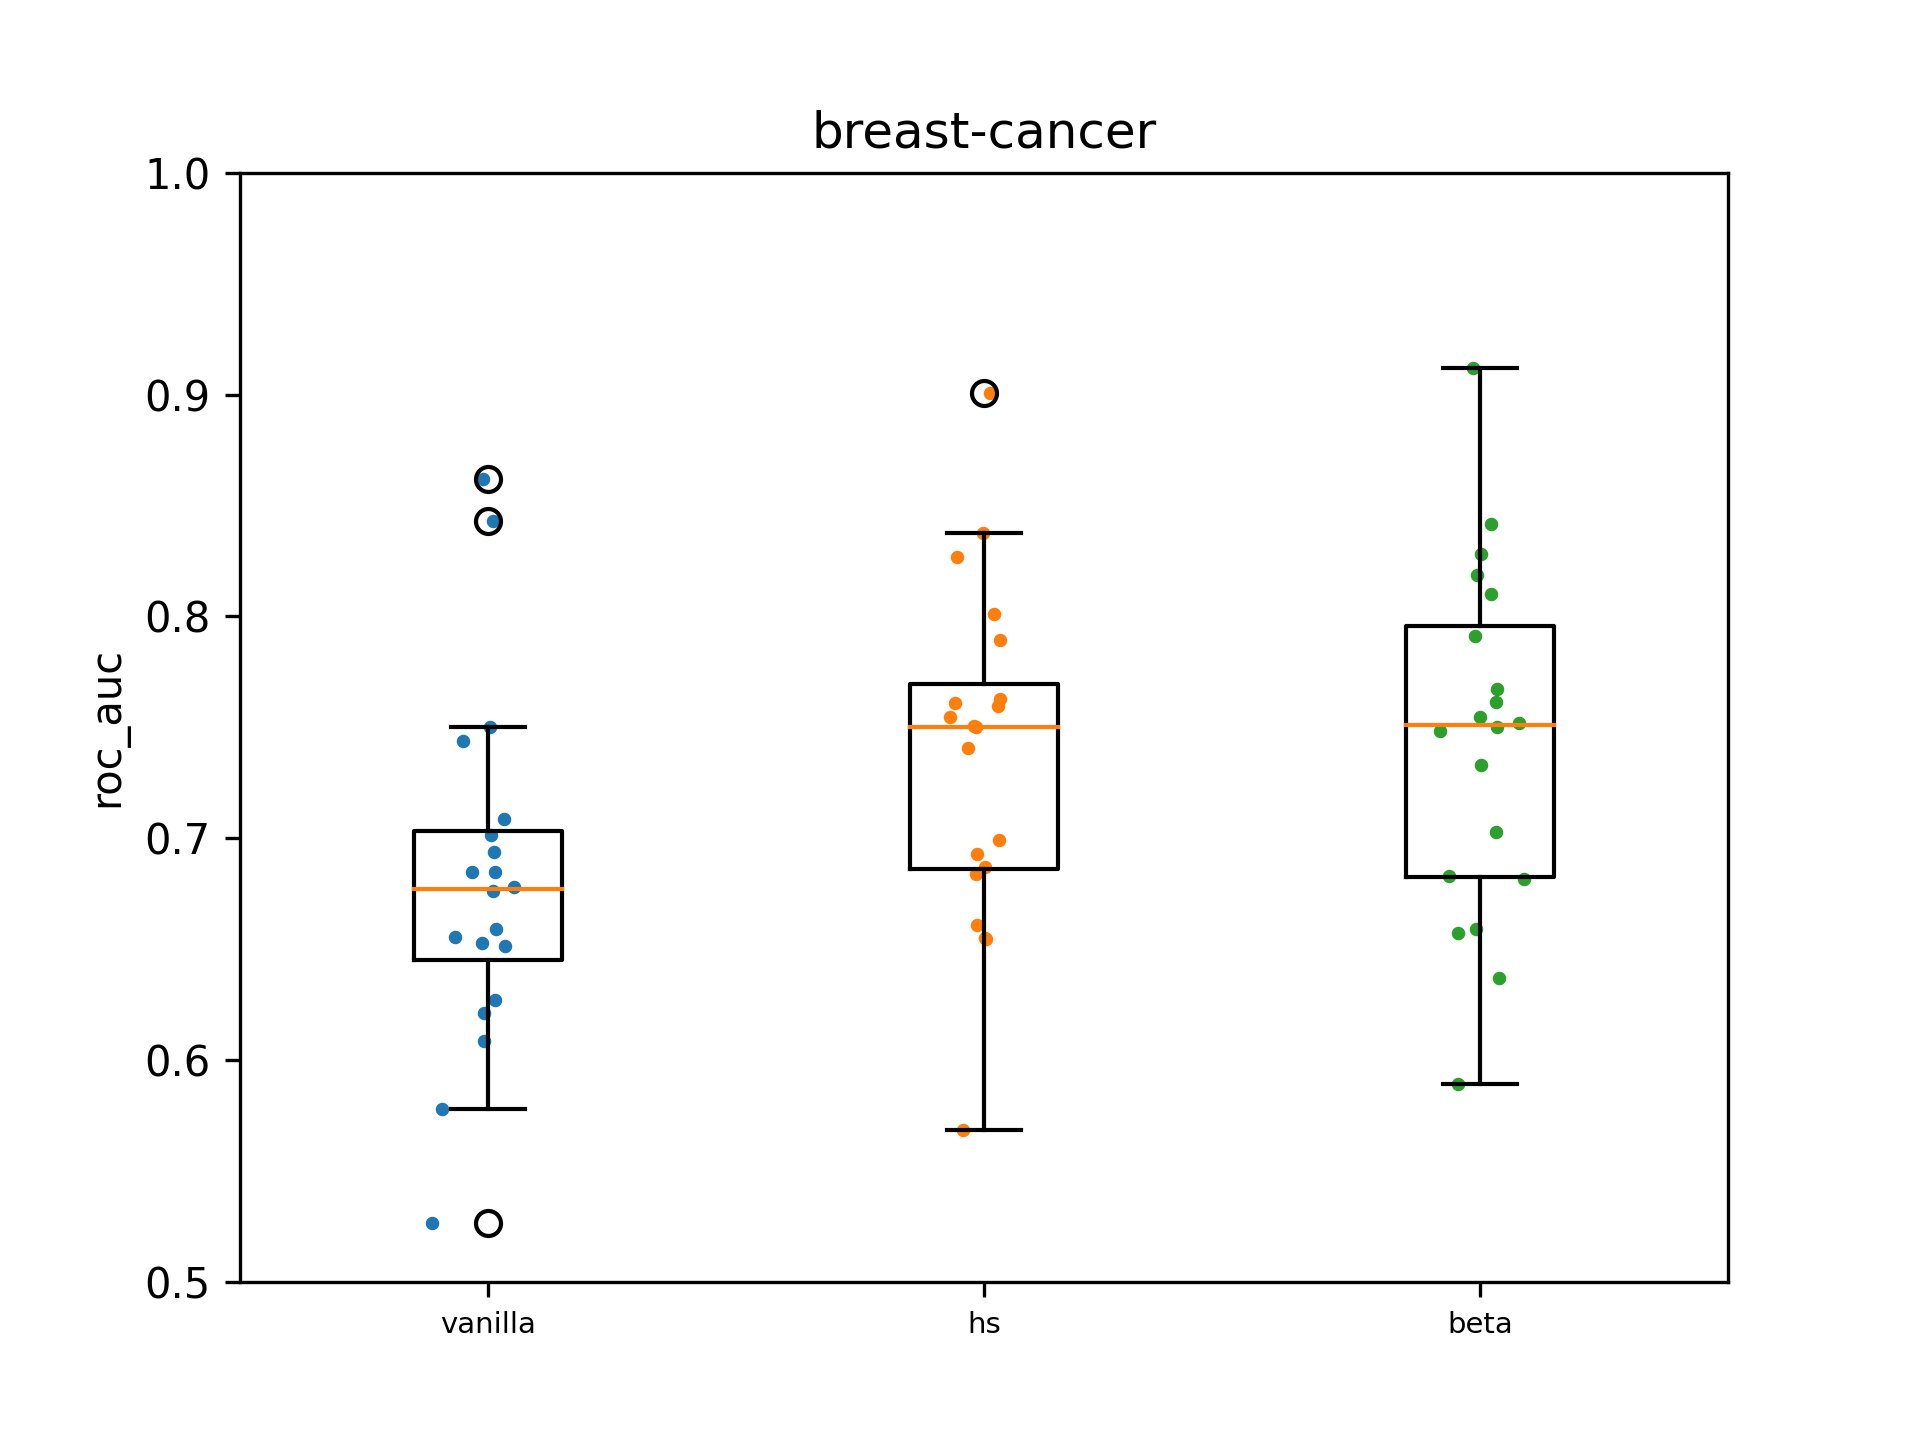
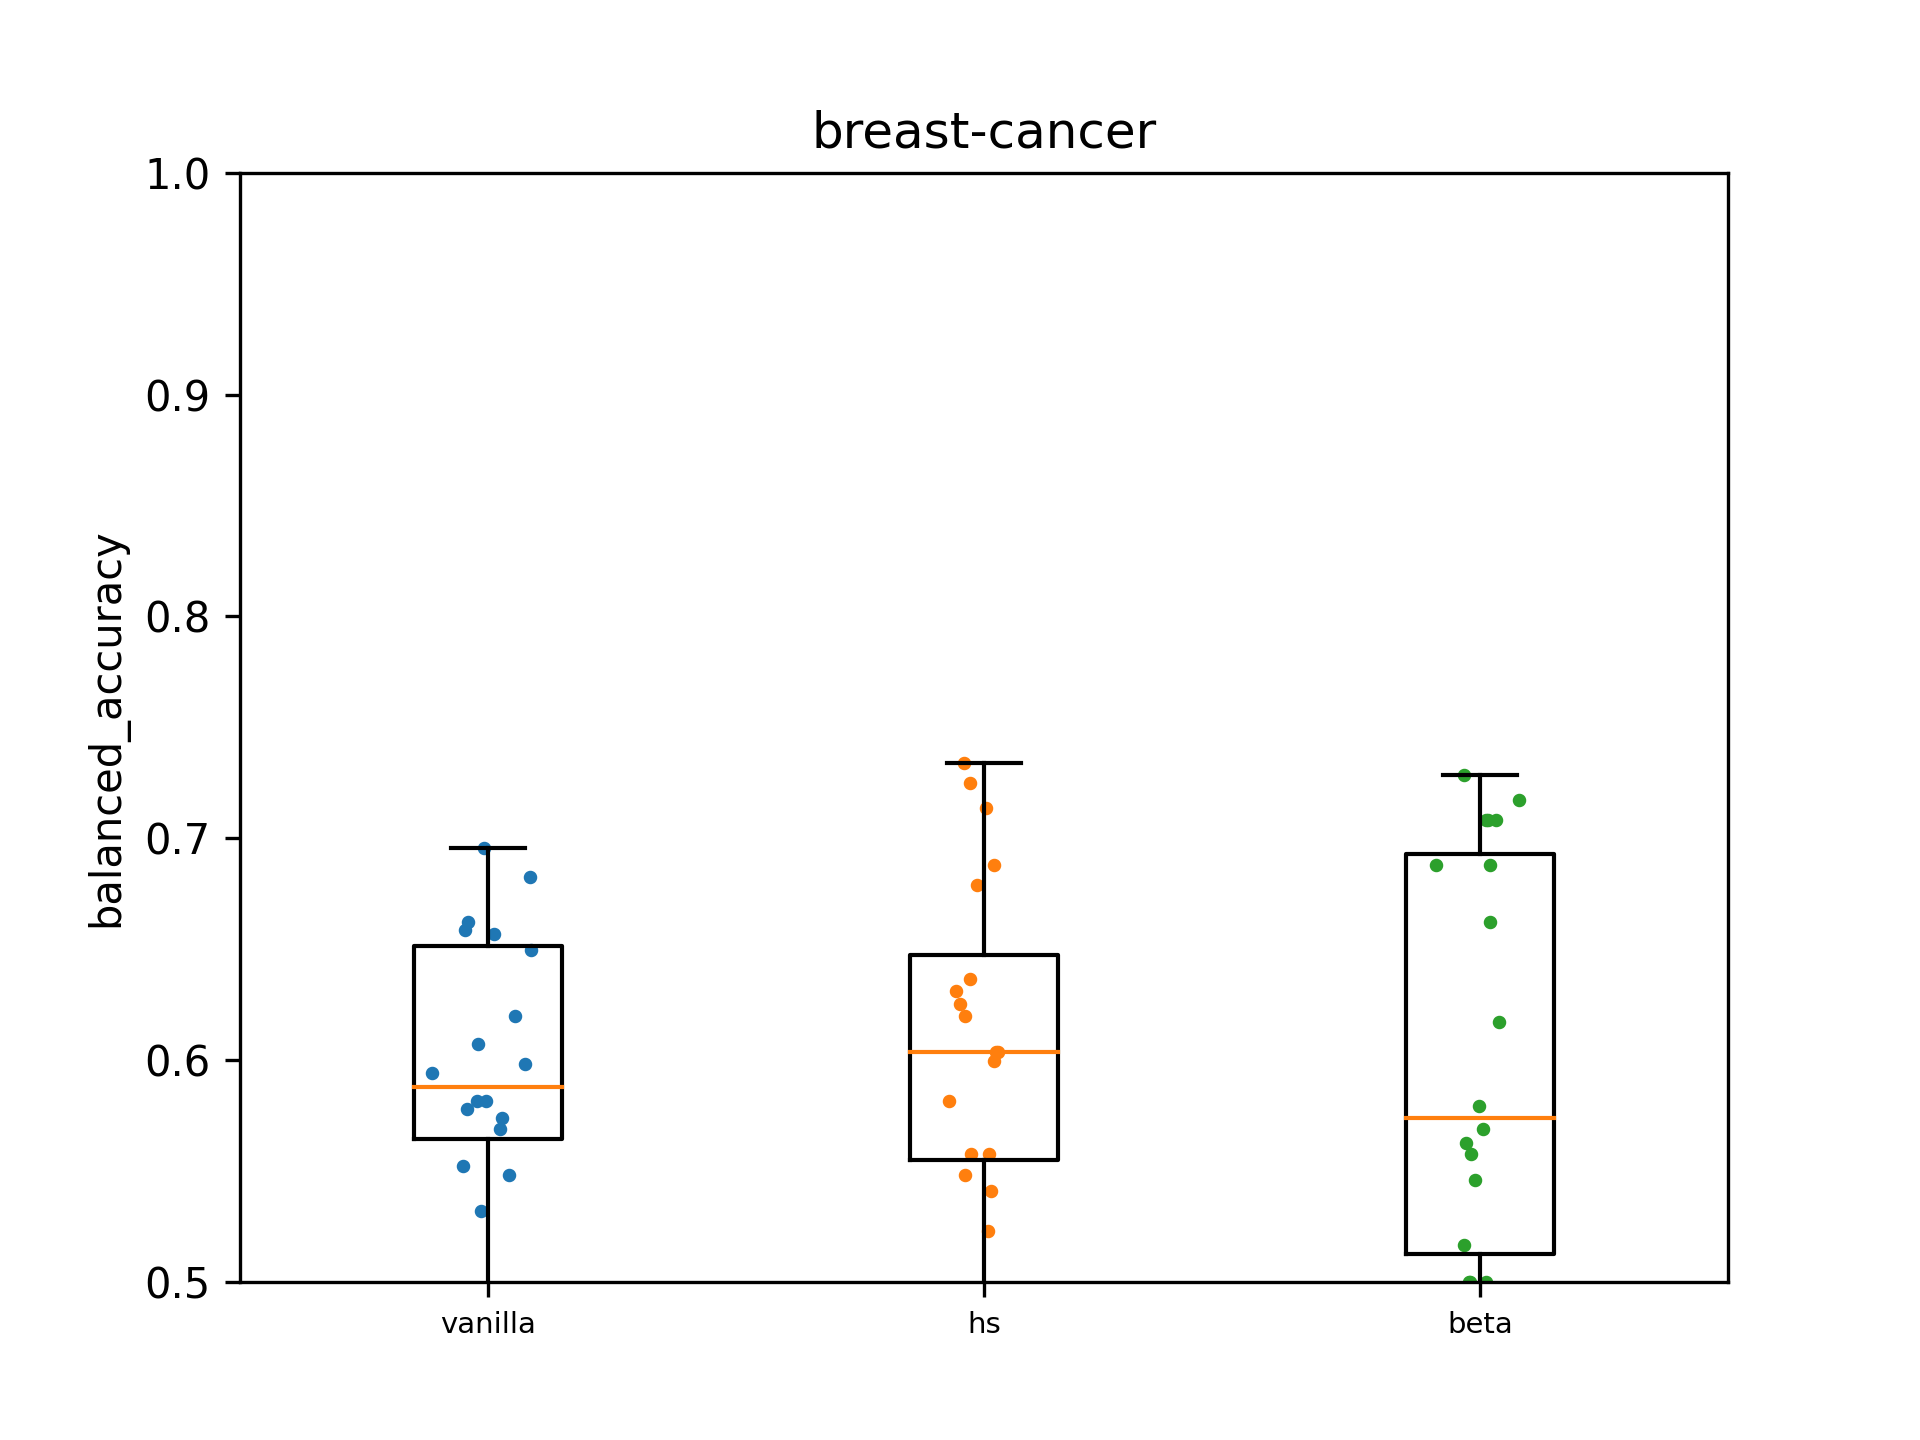
del

diff --git a/performance_tests3.py b/performance_tests3.py
@@ -51,10 +51,10 @@ clf_datasets = [
 ]
 
 # scoring
-#sc = "balanced_accuracy"
-sc = "roc_auc"
+sc = "balanced_accuracy"
+#sc = "roc_auc"
 #ntrees = c("1","2","5","10","50","100")
-ntrees = 100
+ntrees = 1
 iterations = np.arange(0, 20, 1)
 
 for ds_name, id, source in clf_datasets:
@@ -70,7 +70,9 @@ for ds_name, id, source in clf_datasets:
     for xx in iterations:
 
         # train-test split
-        X_train, X_test, y_train, y_test = train_test_split(X, y, test_size=0.20)
+        #X_train, X_test, y_train, y_test = train_test_split(X, y, test_size=0.20)
+        # using the train test split function
+        X_train, X_test, y_train, y_test = train_test_split(X, y ,random_state=104, train_size=0.8, shuffle=True)
 
         # vanilla
         print("Vanilla Mode")
@@ -78,7 +80,7 @@ for ds_name, id, source in clf_datasets:
         #scores[shrink_mode] = []
         clf = RandomForestClassifier(n_estimators=ntrees) 
         clf.fit(X_train, y_train)
-        if sc == "balanced accuracy":
+        if sc == "balanced_accuracy":
             pred_vanilla = clf.predict(X_test)
             scores[shrink_mode].append(balanced_accuracy_score(y_test, pred_vanilla))    
         if sc == "roc_auc":
@@ -101,7 +103,7 @@ for ds_name, id, source in clf_datasets:
         clf = ShrinkageClassifier(RandomForestClassifier(n_estimators=ntrees),shrink_mode=shrink_mode, lmb=best_params.get('lmb'))
         #print(clf)
         clf.fit(X_train, y_train)
-        if sc == "balanced accuracy":
+        if sc == "balanced_accuracy":
             pred_hs = clf.predict(X_test)
             scores[shrink_mode].append(balanced_accuracy_score(y_test, pred_hs))      
         if sc == "roc_auc":
@@ -125,7 +127,7 @@ for ds_name, id, source in clf_datasets:
         clf = ShrinkageClassifier(RandomForestClassifier(n_estimators=ntrees),shrink_mode=shrink_mode, alpha=best_params.get('alpha'), beta=best_params.get('beta'))
         clf.fit(X_train, y_train)
         
-        if sc == "balanced accuracy":
+        if sc == "balanced_accuracy":
             pred_beta = clf.predict(X_test)
             scores[shrink_mode].append(balanced_accuracy_score(y_test, pred_beta))      
         if sc == "roc_auc":
